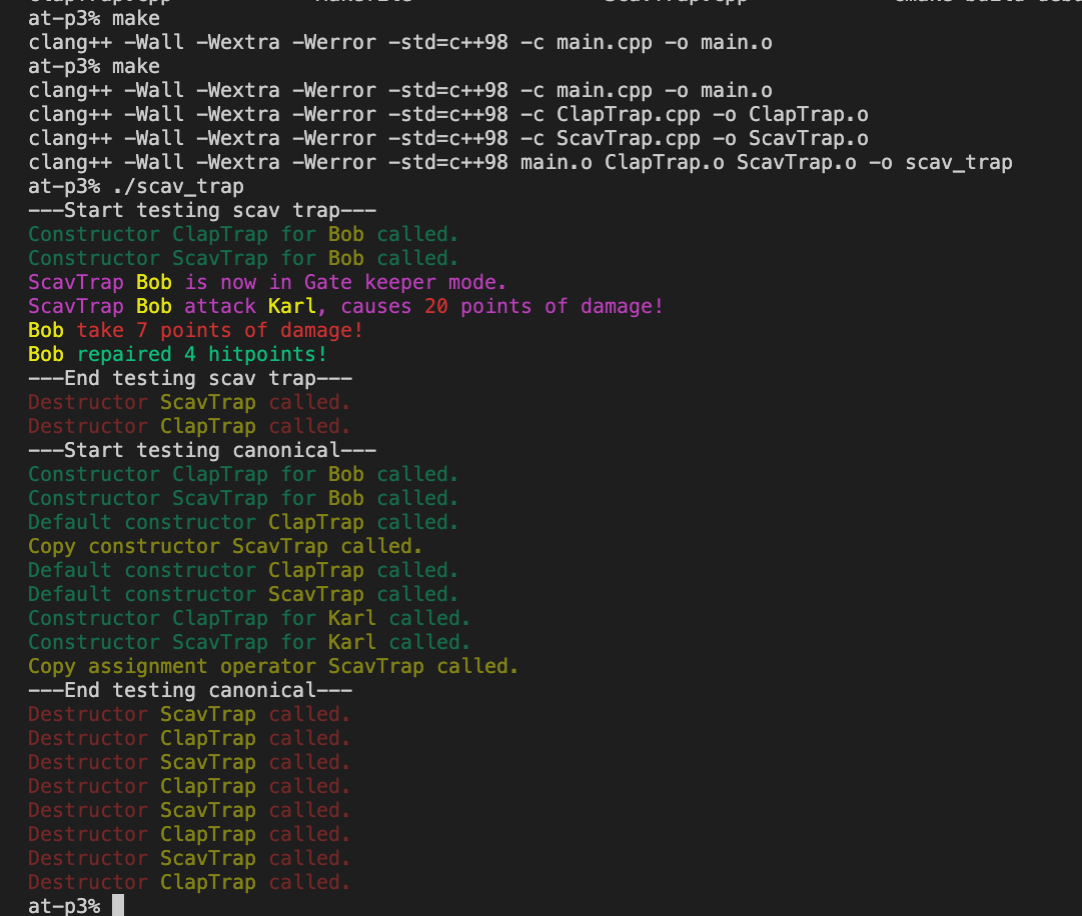
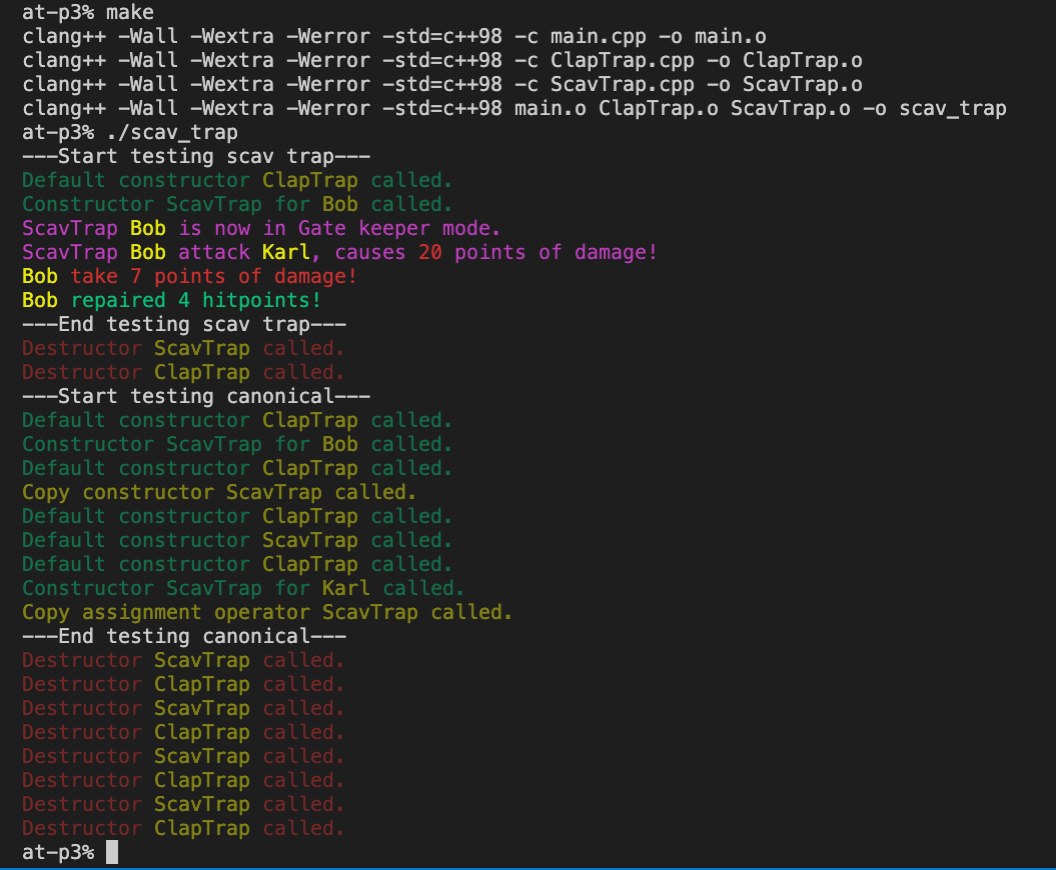
Done_1

Changed region(s): [[0.0, 0.0, 1.0, 1.0], [0.9375, 0.1241, 0.9688, 0.1552]]

diff --git a/Module_03/ex01/ScavTrap.cpp b/Module_03/ex01/ScavTrap.cpp
@@ -11,14 +11,15 @@ ScavTrap::ScavTrap()
 	this->damage_ = 20;
 }
 
-ScavTrap::ScavTrap(std::string name) : ClapTrap(name)
+ScavTrap::ScavTrap(std::string name)
 {
-	std::cout << DARK_GREEN "Constructor ScavTrap for " END_COLOR;
-	std::cout << DARK_YELLOW << this->name_ << END_COLOR;
-	std::cout << DARK_GREEN " called." END_COLOR << std::endl;
+	this->name_ = name;
 	this->hp_ = 100;
 	this->mp_ = 50;
 	this->damage_ = 20;
+	std::cout << DARK_GREEN "Constructor ScavTrap for " END_COLOR;
+	std::cout << DARK_YELLOW << this->name_ << END_COLOR;
+	std::cout << DARK_GREEN " called." END_COLOR << std::endl;
 }
 
 ScavTrap::~ScavTrap()
